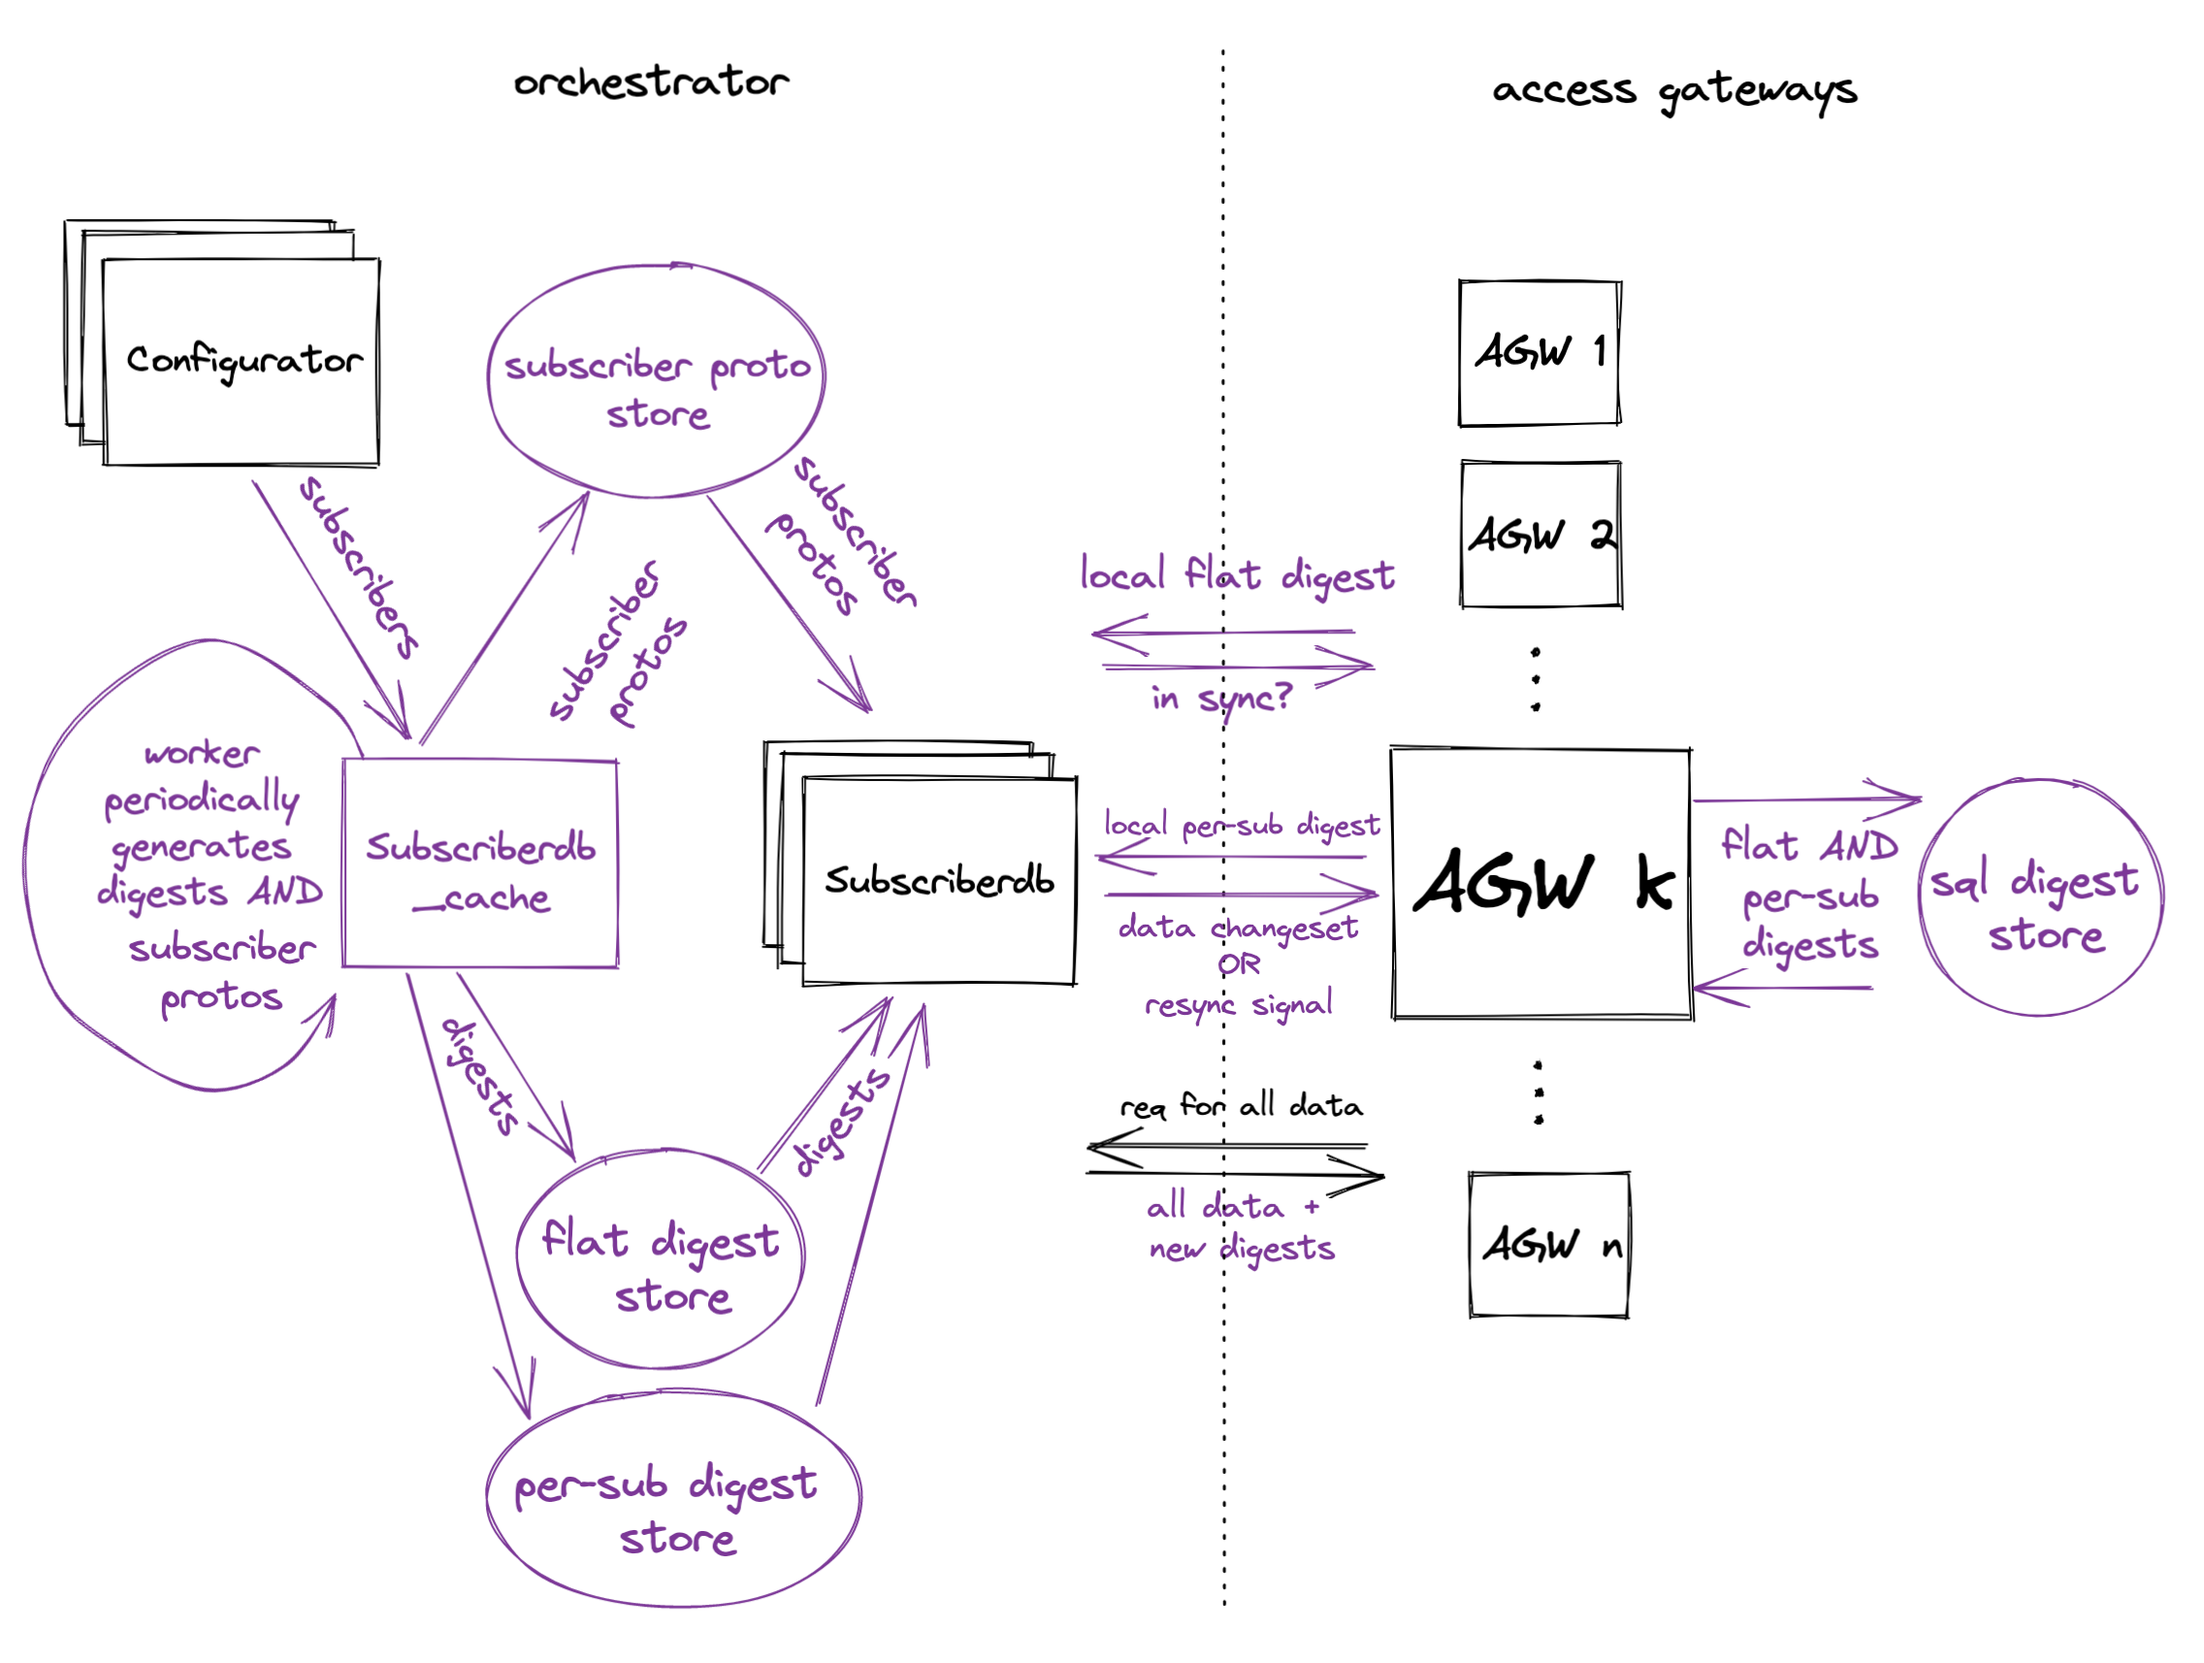
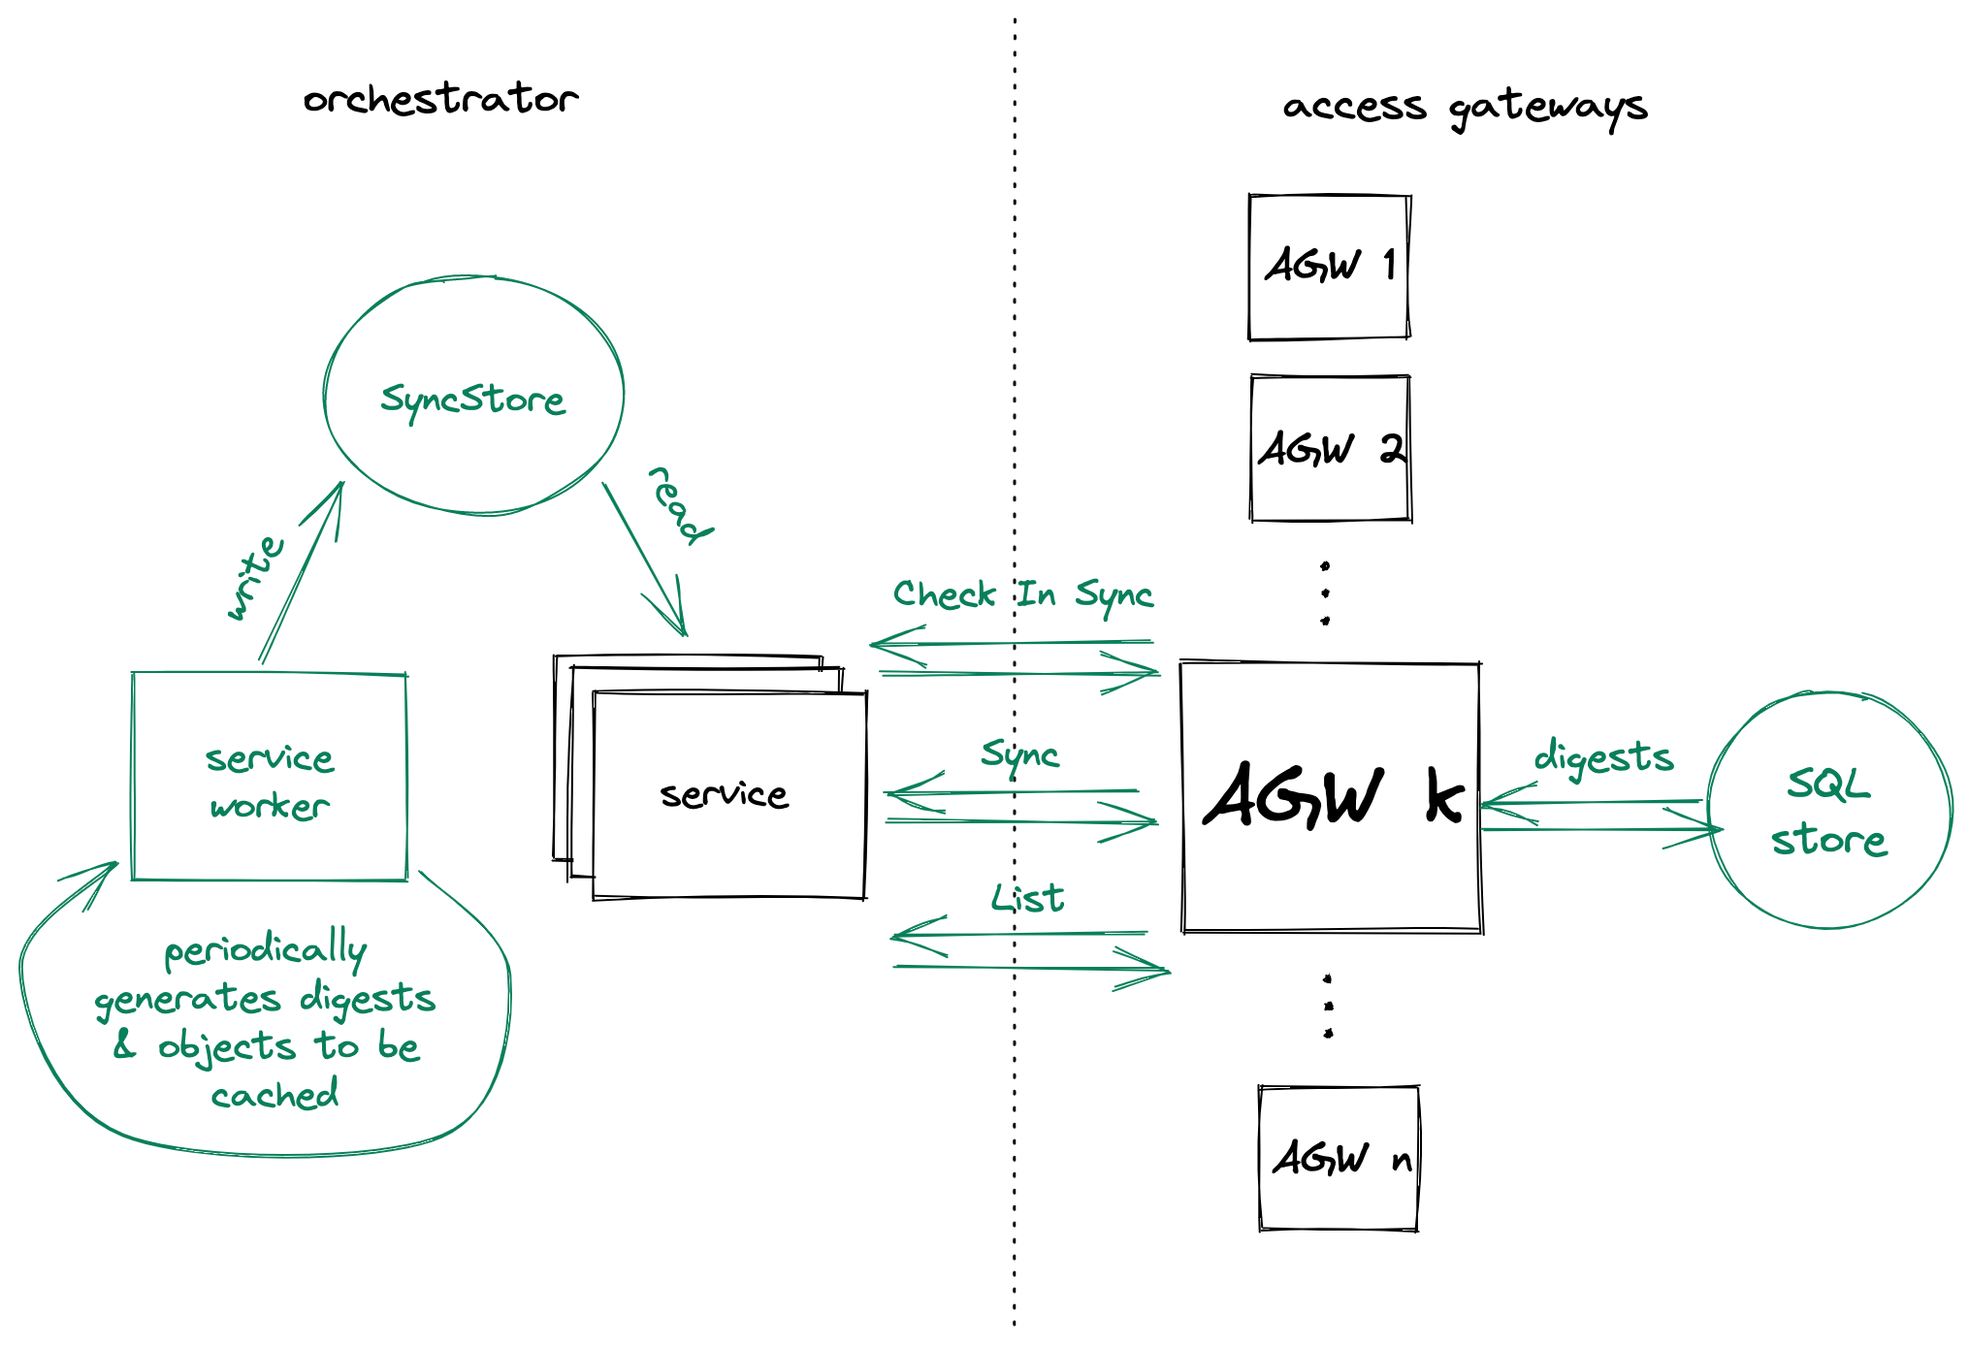
[skip ci] Deploy website
Deploy website version based on e4d1d5c14a2414792438ad158339e5c376ed8f8a

diff --git a/docs/next/orc8r/dev_sub_digests.html b/docs/next/orc8r/dev_sub_digests.html
@@ -71,31 +71,31 @@
 <p>This pattern relies on generating, storing, and communicating digests (aka hashes, or deterministically-encoded, constant-length &quot;snapshots&quot;) of the data to be synced.</p>
 <p>The subscriber digests pattern specifically generates and utilizes two types of digests</p>
 <ol>
-<li><strong>Flat digests</strong>: a digest of the entire set of subscriber configs of a network</li>
-<li><strong>Per-subscriber digests</strong>: a digest of a single subscriber config object. For a network, the list of per-subscriber digests is tracked and distributed en masse</li>
+<li><strong>Root digests</strong>: digest of the entire set of subscriber configs in a network</li>
+<li><strong>Leaf digests</strong>: digest of a single subscriber config object. For a network, this list of per-subscriber digests is tracked and distributed en masse</li>
 </ol>
 <p>NOTE: currently, a decoupling process between subscriber config objects and their gateway-specific APN resource configurations is conducted to ensure the generated digests are representative and also network-general. See <a href="#apn-resource-configs-handling">additional notes</a> for more details.</p>
 <h3><a class="anchor" aria-hidden="true" id="subscriber-digests-cache"></a><a href="#subscriber-digests-cache" aria-hidden="true" class="hash-link"><svg class="hash-link-icon" aria-hidden="true" height="16" version="1.1" viewBox="0 0 16 16" width="16"><path fill-rule="evenodd" d="M4 9h1v1H4c-1.5 0-3-1.69-3-3.5S2.55 3 4 3h4c1.45 0 3 1.69 3 3.5 0 1.41-.91 2.72-2 3.25V8.59c.58-.45 1-1.27 1-2.09C10 5.22 8.98 4 8 4H4c-.98 0-2 1.22-2 2.5S3 9 4 9zm9-3h-1v1h1c1 0 2 1.22 2 2.5S13.98 12 13 12H9c-.98 0-2-1.22-2-2.5 0-.83.42-1.64 1-2.09V6.25c-1.09.53-2 1.84-2 3.25C6 11.31 7.55 13 9 13h4c1.45 0 3-1.69 3-3.5S14.5 6 13 6z"></path></svg></a>Subscriber digests cache</h3>
-<p><em>subscriberdb_cache</em> is a single-pod service in charge of managing network digests. The service constantly generates new flat digests and per-subscriber digests at a configurable interval for each network.</p>
+<p><em>subscriberdb_cache</em> is a single-pod service in charge of managing network digests. The service constantly generates new digests at a configurable interval for each network.</p>
 <p>The generated digests are written to a cloud SQL store to which <em>subscriberdb</em> has read-only access. In this way, <em>subscriberdb</em> can directly read the most up-to-date digests from the SQL store, preserving the limited resources of the <em>subscriberdb_cache</em> singleton.</p>
 <p>Additionally, <em>subscriberdb_cache</em> also caches the subscriber configs that the digests represent. This ensures consistency between the cached digests and the actual subscriber configs in a <em>subscriberdb</em> servicer response.</p>
 <p>That is, every time an update of the digests are detected, <em>subscriberdb_cache</em> loads all subscriber configs from <em>configurator</em> and applies the batch update to store. In this way, <em>subscriberdb_cache</em> acts as the single source of truth from which the <em>subscriberdb</em> servicer loads all data required for the subscriber digests pattern.</p>
 <p><em>subscriberdb_cache</em> supports loading subscriber configs either directly by IDs or by pages. To that end, it generates its own page tokens using the same mechanism as in <em>configurator</em>.</p>
 <h3><a class="anchor" aria-hidden="true" id="agw-digest-store"></a><a href="#agw-digest-store" aria-hidden="true" class="hash-link"><svg class="hash-link-icon" aria-hidden="true" height="16" version="1.1" viewBox="0 0 16 16" width="16"><path fill-rule="evenodd" d="M4 9h1v1H4c-1.5 0-3-1.69-3-3.5S2.55 3 4 3h4c1.45 0 3 1.69 3 3.5 0 1.41-.91 2.72-2 3.25V8.59c.58-.45 1-1.27 1-2.09C10 5.22 8.98 4 8 4H4c-.98 0-2 1.22-2 2.5S3 9 4 9zm9-3h-1v1h1c1 0 2 1.22 2 2.5S13.98 12 13 12H9c-.98 0-2-1.22-2-2.5 0-.83.42-1.64 1-2.09V6.25c-1.09.53-2 1.84-2 3.25C6 11.31 7.55 13 9 13h4c1.45 0 3-1.69 3-3.5S14.5 6 13 6z"></path></svg></a>AGW digest store</h3>
-<p>Aside from its subscriber database, a gateway also manages SQL stores for its local flat and per-subscriber digests.</p>
+<p>Aside from its subscriber database, a gateway also manages SQL stores for its local root and leaf digests.</p>
 <p>Every time a gateway synchronizes its subscriber configs with the cloud, it receives the latest cloud digests, which it writes to local SQL store. These digests represent the version of subscriber configs stored in the gateway, and they are used in the gateway's subsequent requests to the cloud.</p>
 <h3><a class="anchor" aria-hidden="true" id="cloud-agw-callpath"></a><a href="#cloud-agw-callpath" aria-hidden="true" class="hash-link"><svg class="hash-link-icon" aria-hidden="true" height="16" version="1.1" viewBox="0 0 16 16" width="16"><path fill-rule="evenodd" d="M4 9h1v1H4c-1.5 0-3-1.69-3-3.5S2.55 3 4 3h4c1.45 0 3 1.69 3 3.5 0 1.41-.91 2.72-2 3.25V8.59c.58-.45 1-1.27 1-2.09C10 5.22 8.98 4 8 4H4c-.98 0-2 1.22-2 2.5S3 9 4 9zm9-3h-1v1h1c1 0 2 1.22 2 2.5S13.98 12 13 12H9c-.98 0-2-1.22-2-2.5 0-.83.42-1.64 1-2.09V6.25c-1.09.53-2 1.84-2 3.25C6 11.31 7.55 13 9 13h4c1.45 0 3-1.69 3-3.5S14.5 6 13 6z"></path></svg></a>Cloud-AGW callpath</h3>
 <p>The current interactions between the <em>subscriberdb</em> cloud servicer and the AGW client involve 3 servicer endpoints</p>
 <ol>
-<li><p><code>CheckSubscribersInSync</code></p>
+<li><p><code>CheckInSync</code></p>
 <ul>
-<li>AGW sends its local flat digest</li>
+<li>AGW sends its local root digest</li>
 <li>Cloud compares the AGW digest with the cloud digest. Depending on whether they are the same, the cloud returns a signal for whether the AGW is in-sync</li>
 </ul></li>
-<li><p>If AGW is not in-sync: <code>SyncSubscribers</code></p>
+<li><p>If AGW is not in-sync: <code>Sync</code></p>
 <ul>
-<li>AGW sends its local per-subscriber digests</li>
-<li>Cloud compares the AGW digests with the cloud digests, and calculates the changeset between the two sets of per-subscriber digests. That is, it locates the subscribers to renew and delete on the AGW side
+<li>AGW sends its local leaf digests</li>
+<li>Cloud compares the AGW digests with the cloud digests, and calculates the changeset between the two sets of leaf digests. That is, it locates the subscribers to renew and delete on the AGW side
 <ul>
 <li>If the changeset is of a reasonable (configurable) size, returns the data needed to update AGW locally, as well as the latest cloud digests</li>
 <li>If not, returns a signal for AGW to conduct a full-on resync</li>
@@ -104,7 +104,7 @@
 <li><p>If AGW receives resync signal: <code>ListSubscribers</code></p>
 <ul>
 <li>AGW sends desired page size, as well as the current page token (until all pages are fetched)</li>
-<li>Cloud returns the corresponding page of data loaded from <em>subscriberdb_cache</em>, as well as the latest cloud digests</li>
+<li>Cloud returns the corresponding cached page of data as well as the latest cloud digests</li>
 </ul></li>
 </ol>
 <h2><a class="anchor" aria-hidden="true" id="additional-notes"></a><a href="#additional-notes" aria-hidden="true" class="hash-link"><svg class="hash-link-icon" aria-hidden="true" height="16" version="1.1" viewBox="0 0 16 16" width="16"><path fill-rule="evenodd" d="M4 9h1v1H4c-1.5 0-3-1.69-3-3.5S2.55 3 4 3h4c1.45 0 3 1.69 3 3.5 0 1.41-.91 2.72-2 3.25V8.59c.58-.45 1-1.27 1-2.09C10 5.22 8.98 4 8 4H4c-.98 0-2 1.22-2 2.5S3 9 4 9zm9-3h-1v1h1c1 0 2 1.22 2 2.5S13.98 12 13 12H9c-.98 0-2-1.22-2-2.5 0-.83.42-1.64 1-2.09V6.25c-1.09.53-2 1.84-2 3.25C6 11.31 7.55 13 9 13h4c1.45 0 3-1.69 3-3.5S14.5 6 13 6z"></path></svg></a>Additional Notes</h2>

diff --git a/docs/next/orc8r/dev_sub_digests/index.html b/docs/next/orc8r/dev_sub_digests/index.html
@@ -71,31 +71,31 @@
 <p>This pattern relies on generating, storing, and communicating digests (aka hashes, or deterministically-encoded, constant-length &quot;snapshots&quot;) of the data to be synced.</p>
 <p>The subscriber digests pattern specifically generates and utilizes two types of digests</p>
 <ol>
-<li><strong>Flat digests</strong>: a digest of the entire set of subscriber configs of a network</li>
-<li><strong>Per-subscriber digests</strong>: a digest of a single subscriber config object. For a network, the list of per-subscriber digests is tracked and distributed en masse</li>
+<li><strong>Root digests</strong>: digest of the entire set of subscriber configs in a network</li>
+<li><strong>Leaf digests</strong>: digest of a single subscriber config object. For a network, this list of per-subscriber digests is tracked and distributed en masse</li>
 </ol>
 <p>NOTE: currently, a decoupling process between subscriber config objects and their gateway-specific APN resource configurations is conducted to ensure the generated digests are representative and also network-general. See <a href="#apn-resource-configs-handling">additional notes</a> for more details.</p>
 <h3><a class="anchor" aria-hidden="true" id="subscriber-digests-cache"></a><a href="#subscriber-digests-cache" aria-hidden="true" class="hash-link"><svg class="hash-link-icon" aria-hidden="true" height="16" version="1.1" viewBox="0 0 16 16" width="16"><path fill-rule="evenodd" d="M4 9h1v1H4c-1.5 0-3-1.69-3-3.5S2.55 3 4 3h4c1.45 0 3 1.69 3 3.5 0 1.41-.91 2.72-2 3.25V8.59c.58-.45 1-1.27 1-2.09C10 5.22 8.98 4 8 4H4c-.98 0-2 1.22-2 2.5S3 9 4 9zm9-3h-1v1h1c1 0 2 1.22 2 2.5S13.98 12 13 12H9c-.98 0-2-1.22-2-2.5 0-.83.42-1.64 1-2.09V6.25c-1.09.53-2 1.84-2 3.25C6 11.31 7.55 13 9 13h4c1.45 0 3-1.69 3-3.5S14.5 6 13 6z"></path></svg></a>Subscriber digests cache</h3>
-<p><em>subscriberdb_cache</em> is a single-pod service in charge of managing network digests. The service constantly generates new flat digests and per-subscriber digests at a configurable interval for each network.</p>
+<p><em>subscriberdb_cache</em> is a single-pod service in charge of managing network digests. The service constantly generates new digests at a configurable interval for each network.</p>
 <p>The generated digests are written to a cloud SQL store to which <em>subscriberdb</em> has read-only access. In this way, <em>subscriberdb</em> can directly read the most up-to-date digests from the SQL store, preserving the limited resources of the <em>subscriberdb_cache</em> singleton.</p>
 <p>Additionally, <em>subscriberdb_cache</em> also caches the subscriber configs that the digests represent. This ensures consistency between the cached digests and the actual subscriber configs in a <em>subscriberdb</em> servicer response.</p>
 <p>That is, every time an update of the digests are detected, <em>subscriberdb_cache</em> loads all subscriber configs from <em>configurator</em> and applies the batch update to store. In this way, <em>subscriberdb_cache</em> acts as the single source of truth from which the <em>subscriberdb</em> servicer loads all data required for the subscriber digests pattern.</p>
 <p><em>subscriberdb_cache</em> supports loading subscriber configs either directly by IDs or by pages. To that end, it generates its own page tokens using the same mechanism as in <em>configurator</em>.</p>
 <h3><a class="anchor" aria-hidden="true" id="agw-digest-store"></a><a href="#agw-digest-store" aria-hidden="true" class="hash-link"><svg class="hash-link-icon" aria-hidden="true" height="16" version="1.1" viewBox="0 0 16 16" width="16"><path fill-rule="evenodd" d="M4 9h1v1H4c-1.5 0-3-1.69-3-3.5S2.55 3 4 3h4c1.45 0 3 1.69 3 3.5 0 1.41-.91 2.72-2 3.25V8.59c.58-.45 1-1.27 1-2.09C10 5.22 8.98 4 8 4H4c-.98 0-2 1.22-2 2.5S3 9 4 9zm9-3h-1v1h1c1 0 2 1.22 2 2.5S13.98 12 13 12H9c-.98 0-2-1.22-2-2.5 0-.83.42-1.64 1-2.09V6.25c-1.09.53-2 1.84-2 3.25C6 11.31 7.55 13 9 13h4c1.45 0 3-1.69 3-3.5S14.5 6 13 6z"></path></svg></a>AGW digest store</h3>
-<p>Aside from its subscriber database, a gateway also manages SQL stores for its local flat and per-subscriber digests.</p>
+<p>Aside from its subscriber database, a gateway also manages SQL stores for its local root and leaf digests.</p>
 <p>Every time a gateway synchronizes its subscriber configs with the cloud, it receives the latest cloud digests, which it writes to local SQL store. These digests represent the version of subscriber configs stored in the gateway, and they are used in the gateway's subsequent requests to the cloud.</p>
 <h3><a class="anchor" aria-hidden="true" id="cloud-agw-callpath"></a><a href="#cloud-agw-callpath" aria-hidden="true" class="hash-link"><svg class="hash-link-icon" aria-hidden="true" height="16" version="1.1" viewBox="0 0 16 16" width="16"><path fill-rule="evenodd" d="M4 9h1v1H4c-1.5 0-3-1.69-3-3.5S2.55 3 4 3h4c1.45 0 3 1.69 3 3.5 0 1.41-.91 2.72-2 3.25V8.59c.58-.45 1-1.27 1-2.09C10 5.22 8.98 4 8 4H4c-.98 0-2 1.22-2 2.5S3 9 4 9zm9-3h-1v1h1c1 0 2 1.22 2 2.5S13.98 12 13 12H9c-.98 0-2-1.22-2-2.5 0-.83.42-1.64 1-2.09V6.25c-1.09.53-2 1.84-2 3.25C6 11.31 7.55 13 9 13h4c1.45 0 3-1.69 3-3.5S14.5 6 13 6z"></path></svg></a>Cloud-AGW callpath</h3>
 <p>The current interactions between the <em>subscriberdb</em> cloud servicer and the AGW client involve 3 servicer endpoints</p>
 <ol>
-<li><p><code>CheckSubscribersInSync</code></p>
+<li><p><code>CheckInSync</code></p>
 <ul>
-<li>AGW sends its local flat digest</li>
+<li>AGW sends its local root digest</li>
 <li>Cloud compares the AGW digest with the cloud digest. Depending on whether they are the same, the cloud returns a signal for whether the AGW is in-sync</li>
 </ul></li>
-<li><p>If AGW is not in-sync: <code>SyncSubscribers</code></p>
+<li><p>If AGW is not in-sync: <code>Sync</code></p>
 <ul>
-<li>AGW sends its local per-subscriber digests</li>
-<li>Cloud compares the AGW digests with the cloud digests, and calculates the changeset between the two sets of per-subscriber digests. That is, it locates the subscribers to renew and delete on the AGW side
+<li>AGW sends its local leaf digests</li>
+<li>Cloud compares the AGW digests with the cloud digests, and calculates the changeset between the two sets of leaf digests. That is, it locates the subscribers to renew and delete on the AGW side
 <ul>
 <li>If the changeset is of a reasonable (configurable) size, returns the data needed to update AGW locally, as well as the latest cloud digests</li>
 <li>If not, returns a signal for AGW to conduct a full-on resync</li>
@@ -104,7 +104,7 @@
 <li><p>If AGW receives resync signal: <code>ListSubscribers</code></p>
 <ul>
 <li>AGW sends desired page size, as well as the current page token (until all pages are fetched)</li>
-<li>Cloud returns the corresponding page of data loaded from <em>subscriberdb_cache</em>, as well as the latest cloud digests</li>
+<li>Cloud returns the corresponding cached page of data as well as the latest cloud digests</li>
 </ul></li>
 </ol>
 <h2><a class="anchor" aria-hidden="true" id="additional-notes"></a><a href="#additional-notes" aria-hidden="true" class="hash-link"><svg class="hash-link-icon" aria-hidden="true" height="16" version="1.1" viewBox="0 0 16 16" width="16"><path fill-rule="evenodd" d="M4 9h1v1H4c-1.5 0-3-1.69-3-3.5S2.55 3 4 3h4c1.45 0 3 1.69 3 3.5 0 1.41-.91 2.72-2 3.25V8.59c.58-.45 1-1.27 1-2.09C10 5.22 8.98 4 8 4H4c-.98 0-2 1.22-2 2.5S3 9 4 9zm9-3h-1v1h1c1 0 2 1.22 2 2.5S13.98 12 13 12H9c-.98 0-2-1.22-2-2.5 0-.83.42-1.64 1-2.09V6.25c-1.09.53-2 1.84-2 3.25C6 11.31 7.55 13 9 13h4c1.45 0 3-1.69 3-3.5S14.5 6 13 6z"></path></svg></a>Additional Notes</h2>
